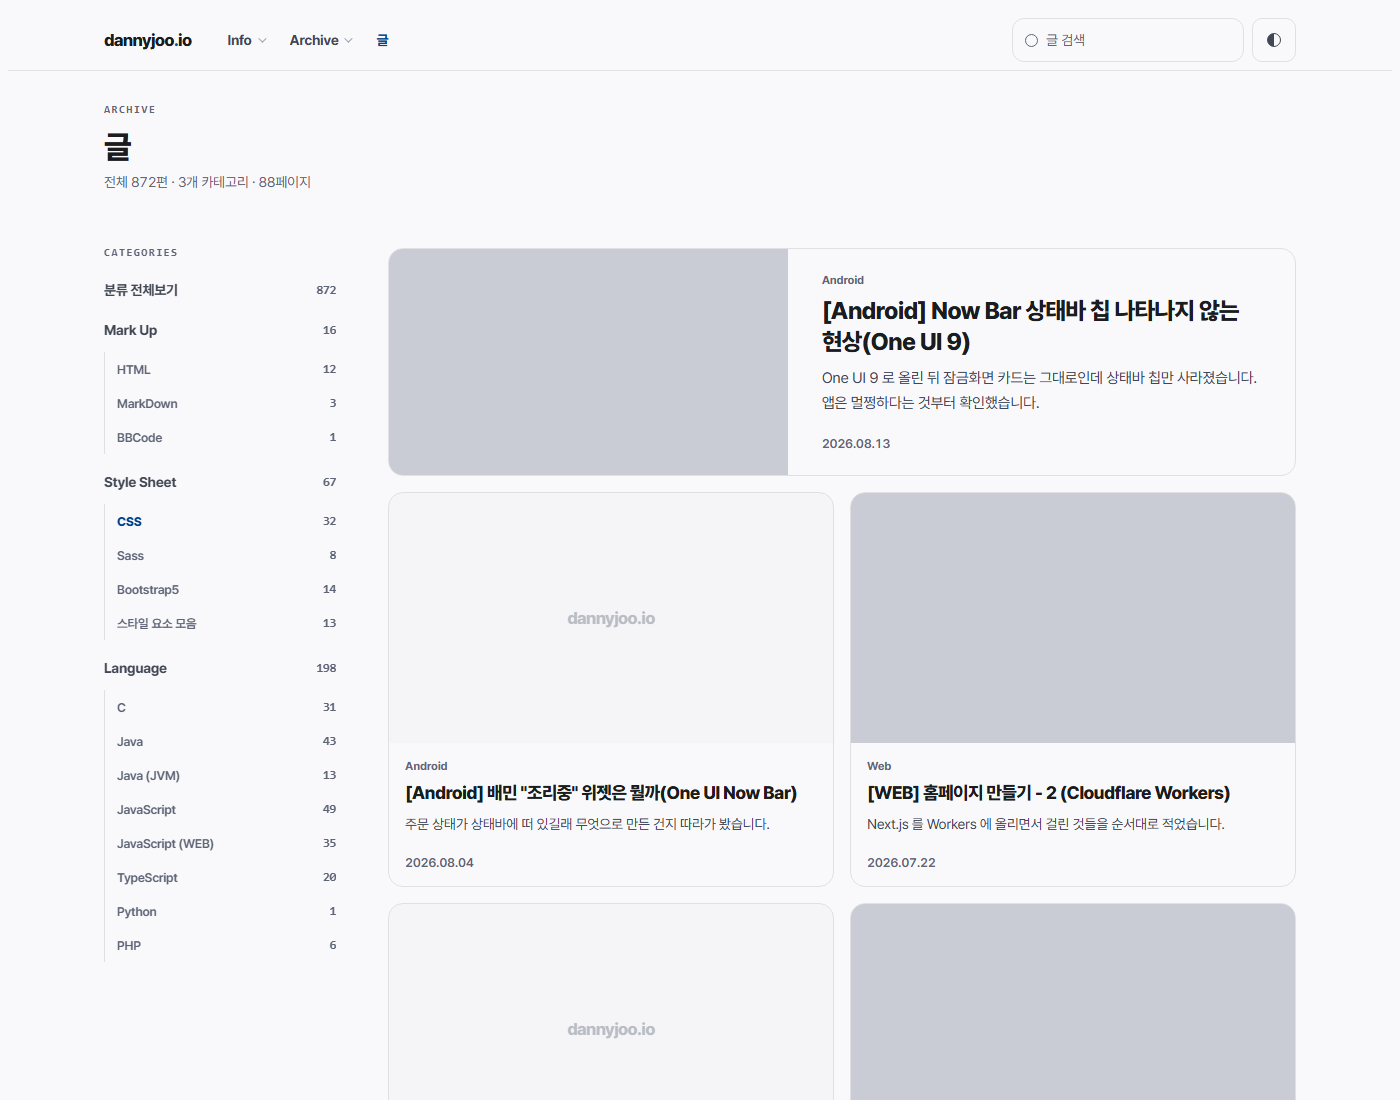
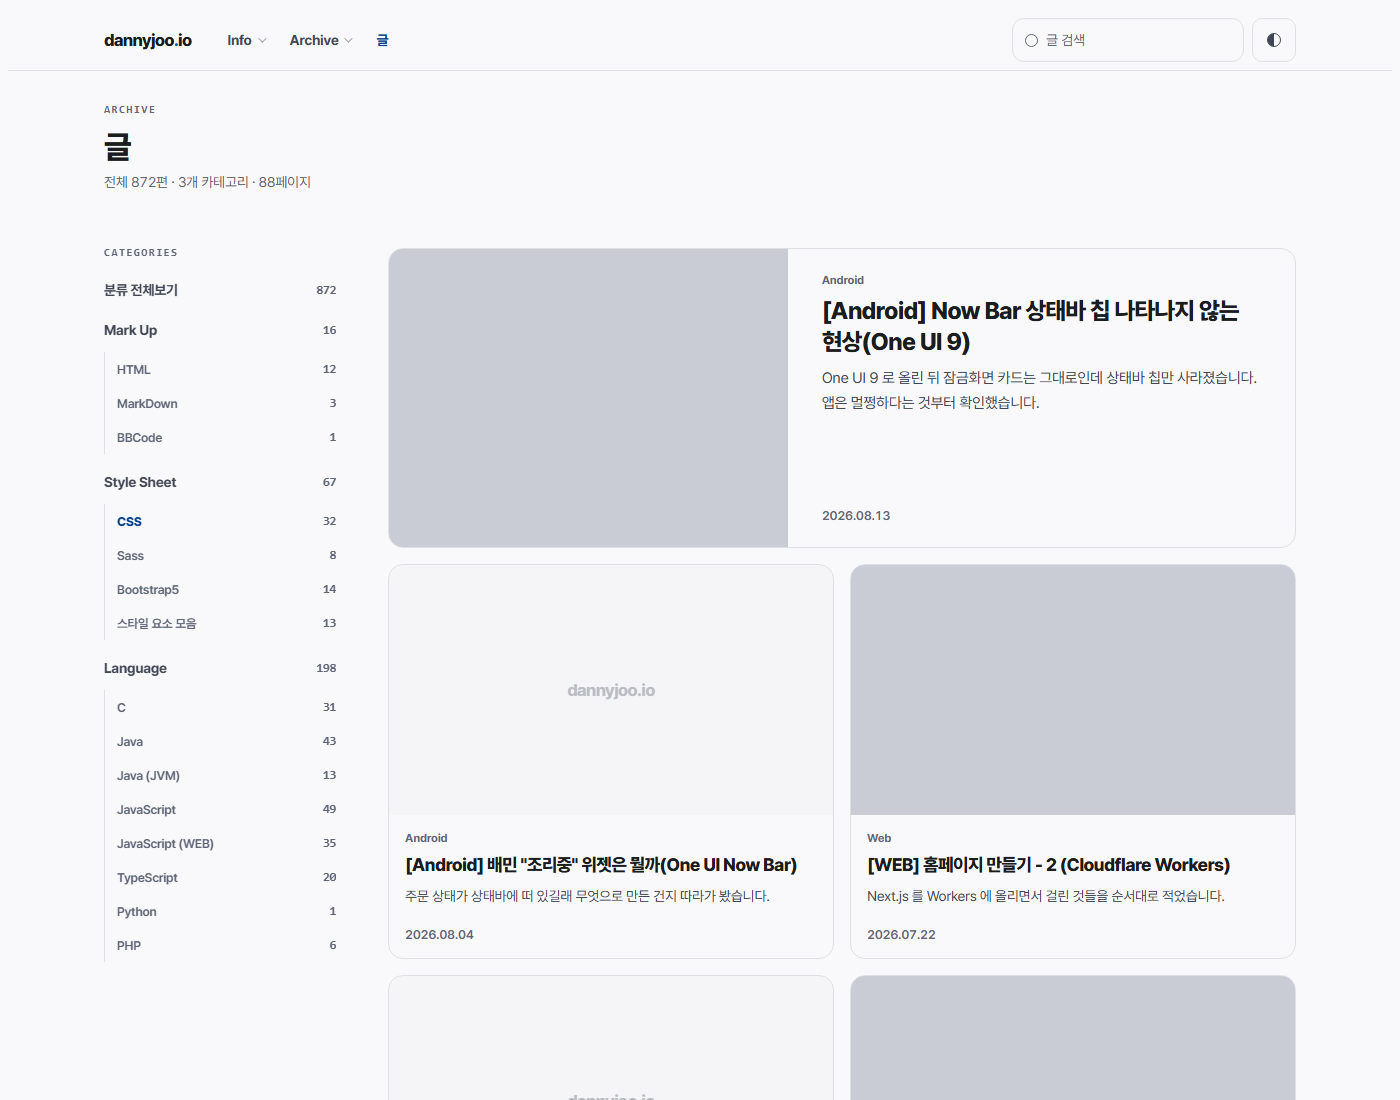
fix: Grain 코드블록 클래스명, 카테고리 새글표시, 이미지 세로 제한, 결과없음 화면, 푸터·문구 정리

diff --git a/design/blog/grain/skin.html b/design/blog/grain/skin.html
@@ -69,9 +69,9 @@
 <section class="hero" data-page-only="home">
   <div class="wrap hero__grid">
     <div>
-      <p class="eyebrow">Android · Web · Seoul</p>
-      <h1 class="hero__title">만든 것보다 고친 것을 더 많이 씁니다<em>.</em></h1>
-      <p class="hero__lede">안드로이드 앱과 웹을 함께 만듭니다. 프로덕션에서 실제로 터진 문제와 그걸 고친 과정을 남깁니다. 잘 된 이야기보다 잘못됐던 이야기가 많습니다.</p>
+      <p class="eyebrow">About</p>
+      <h1 class="hero__title">기록하고, 공유합니다<em>.</em></h1>
+      <p class="hero__lede">이 블로그는 개발하며 마주치는 문제들과 해결 과정, 그리고 일상의 소소한 이야기를 담는 공간입니다. 복잡한 것을 단순하게 정리하고, 나중의 나를 위해 기록합니다.</p>
       <div class="hero__actions">
         <a href="[##_blog_link_##]category" class="btn btn--primary">글 보러 가기</a>
         <a href="https://github.com/dannyjoo7" class="btn btn--ghost">GitHub</a>
@@ -88,7 +88,7 @@
       </div>
       <div>
         <h2 class="profile-card__name">Danny Joo</h2>
-        <p class="profile-card__role">Android · Web Developer</p>
+        <p class="profile-card__role">Developer</p>
       </div>
       <p class="profile-card__bio">개발, 기술, 그리고 일상에 대한 기록.</p>
       <div class="profile-card__stats">
@@ -116,7 +116,6 @@
       <div class="link-list">
         <a href="https://github.com/dannyjoo7" class="link-list__item">GitHub<span class="link-list__handle">@dannyjoo7</span></a>
         <a href="https://www.youtube.com/@danny_joo" class="link-list__item">YouTube<span class="link-list__handle">@danny_joo</span></a>
-        <a href="[##_blog_link_##]rss" class="link-list__item">RSS<span class="link-list__handle">/rss</span></a>
       </div>
     </div>
     <div>
@@ -177,6 +176,8 @@
       </s_list>
     </div>
 
+    <p class="list-empty" hidden></p>
+
     <!-- 페이지 이동 -->
     <s_paging>
       <nav class="pagination" aria-label="페이지 이동">
@@ -202,7 +203,7 @@
       </div>
       <div>
         <p class="profile-card__name">Danny Joo</p>
-        <p class="profile-card__role">Android · Web Developer</p>
+        <p class="profile-card__role">Developer</p>
       </div>
     </div>
 
@@ -216,6 +217,22 @@
       <nav class="widget__body cat-tree">
         <s_sidebar_element>[##_category_list_##]</s_sidebar_element>
       </nav>
+    </div>
+
+    <div class="widget">
+      <p class="widget__title label-ko">최근 글</p>
+      <div class="widget__body recent-list">
+        <s_sidebar_element>
+          <s_rctps_rep>
+            <a href="[##_rctps_rep_link_##]" class="recent-list__item">
+              <div>
+                <p class="recent-list__title">[##_rctps_rep_title_##]</p>
+                <p class="recent-list__date">[##_rctps_rep_simple_date_##]</p>
+              </div>
+            </a>
+          </s_rctps_rep>
+        </s_sidebar_element>
+      </div>
     </div>
   </aside>
 
@@ -317,10 +334,7 @@
 <!-- ==================== 푸터 ==================== -->
 <footer class="site-footer">
   <div class="wrap site-footer__inner">
-    <p class="site-footer__note">© 2026 Danny Joo</p>
     <div class="site-footer__links">
-      <a href="[##_blog_link_##]rss">RSS</a>
-      <a href="[##_blog_link_##]sitemap.xml">Sitemap</a>
       <a href="#" id="to-top">위로</a>
     </div>
   </div>
@@ -383,6 +397,15 @@
       var n = el.textContent.match(/\d+/);
       el.textContent = n ? n[0] : '';
     });
+    // 티스토리가 끼워 넣는 새 글 표시(new_ico_1.gif). 라벨 옆 작은 점으로 바꾼다
+    $$('img[alt="N"]', t).forEach(function (img) {
+      var dot = document.createElement('i');
+      dot.className = 'cat-new';
+      dot.title = '새 글';
+      var cnt = img.parentNode.querySelector('.c_cnt');
+      img.parentNode.insertBefore(dot, cnt || img);
+      img.remove();
+    });
   });
   var tree = trees[0];
   var mega = $('#mega-cats');
@@ -423,6 +446,15 @@
   } else if (headCount && seg[0] === 'category' && seg.length > 1) {
     var sel = tree && tree.querySelector('.selected > a .c_cnt');
     headCount.textContent = sel ? '이 카테고리 ' + sel.textContent + '편' : '';
+  }
+
+  // 검색·태그에서 걸리는 글이 없으면 화면이 통째로 비어 버린다
+  var empty = $('.list-empty');
+  if (page === 'list' && empty && !$('.article-grid .article-card')) {
+    empty.textContent = seg[0] === 'search' ? '검색 결과가 없습니다'
+                      : seg[0] === 'tag'    ? '이 태그로 쓴 글이 없습니다'
+                      : '아직 글이 없습니다';
+    empty.hidden = false;
   }
 
   var totalEl = tree && tree.querySelector('.link_tit .c_cnt');
@@ -538,8 +570,8 @@
   $$('.post-body pre').forEach(function (pre) {
     var wrap = document.createElement('div');
     wrap.className = 'code-block';
-    wrap.innerHTML = '<div class="code-block__bar"><span class="code-block__dots" aria-hidden="true">' +
-      '<i></i><i></i><i></i></span><span class="code-block__lang">' +
+    wrap.innerHTML = '<div class="code-block__bar"><span class="code-block__lights" aria-hidden="true">' +
+      '<i></i><i></i><i></i></span><span class="code-block__name">' +
       (pre.getAttribute('data-ke-language') || 'code') +
       '</span><button class="code-block__copy" type="button" aria-label="코드 복사">' + COPY + '</button></div>';
     pre.parentNode.insertBefore(wrap, pre);

diff --git a/design/blog/grain/style.css b/design/blog/grain/style.css
@@ -1256,6 +1256,37 @@ button { cursor: pointer; }
   opacity: 0.4;
 }
 
+/* 첫 글(큰 카드) 썸네일. 비율을 안 잡으면 세로로 긴 이미지가 카드를 통째로 늘린다 */
+.article-card--hero .article-card__thumb { aspect-ratio: 4 / 3; max-height: 340px; }
+
+/* 프로필 카드 숫자. 폭이 제각각이라 아래 라벨이 안 맞았다. 3등분으로 고정 */
+.profile-card__stats { display: grid; grid-template-columns: repeat(3, 1fr); gap: var(--sp-3); }
+.profile-card__stat { min-width: 0; }
+
+/* 카테고리 새 글 표시. 티스토리 gif 를 걷어내고 점으로 */
+.cat-tree .tt_category a { justify-content: flex-start; }
+.cat-tree .tt_category .c_cnt { margin-left: auto; }
+.cat-tree .tt_category .cat-new {
+  width: 5px;
+  height: 5px;
+  border-radius: 50%;
+  background: var(--acc);
+  flex: none;
+  margin-left: 6px;
+}
+
+/* 검색·태그 결과 없음 */
+.list-empty {
+  padding: var(--sp-8) 0;
+  text-align: center;
+  color: var(--ink-3);
+  font-size: var(--fs-sm);
+}
+
+/* 푸터는 위로 버튼만 남겼다. margin-left:auto 때문에 오른쪽으로 밀려 있었다 */
+.site-footer__inner { justify-content: center; }
+.site-footer__links { margin-left: 0; }
+
 /* 아바타 — 목업에선 회색 자리표시자였다. 실제로는 img 가 들어간다 */
 .profile-card__avatar { overflow: hidden; background: var(--fill); flex: none; }
 .profile-card__avatar img { width: 100%; height: 100%; object-fit: cover; display: block; }
@@ -1263,7 +1294,16 @@ button { cursor: pointer; }
 /* ----- 본문 요소 -----
    티스토리 에디터는 클래스 없는 table·blockquote·hr 을 뱉는다.
    목업의 .post-* 스타일을 맨몸 태그에도 걸어준다 */
-.post-body img { max-width: 100%; height: auto; }
+/* 본문 이미지. 폰 스크린샷처럼 세로로 긴 것이 화면을 다 잡아먹지 않게 상한을 둔다 */
+.post-body img {
+  max-width: 100%;
+  height: auto;
+  max-height: 78vh;
+  width: auto;
+  display: block;
+  margin: var(--post-gap) auto;
+  border-radius: var(--r);
+}
 .post-body figure { margin: var(--post-gap) 0; }
 
 .post-body table {
